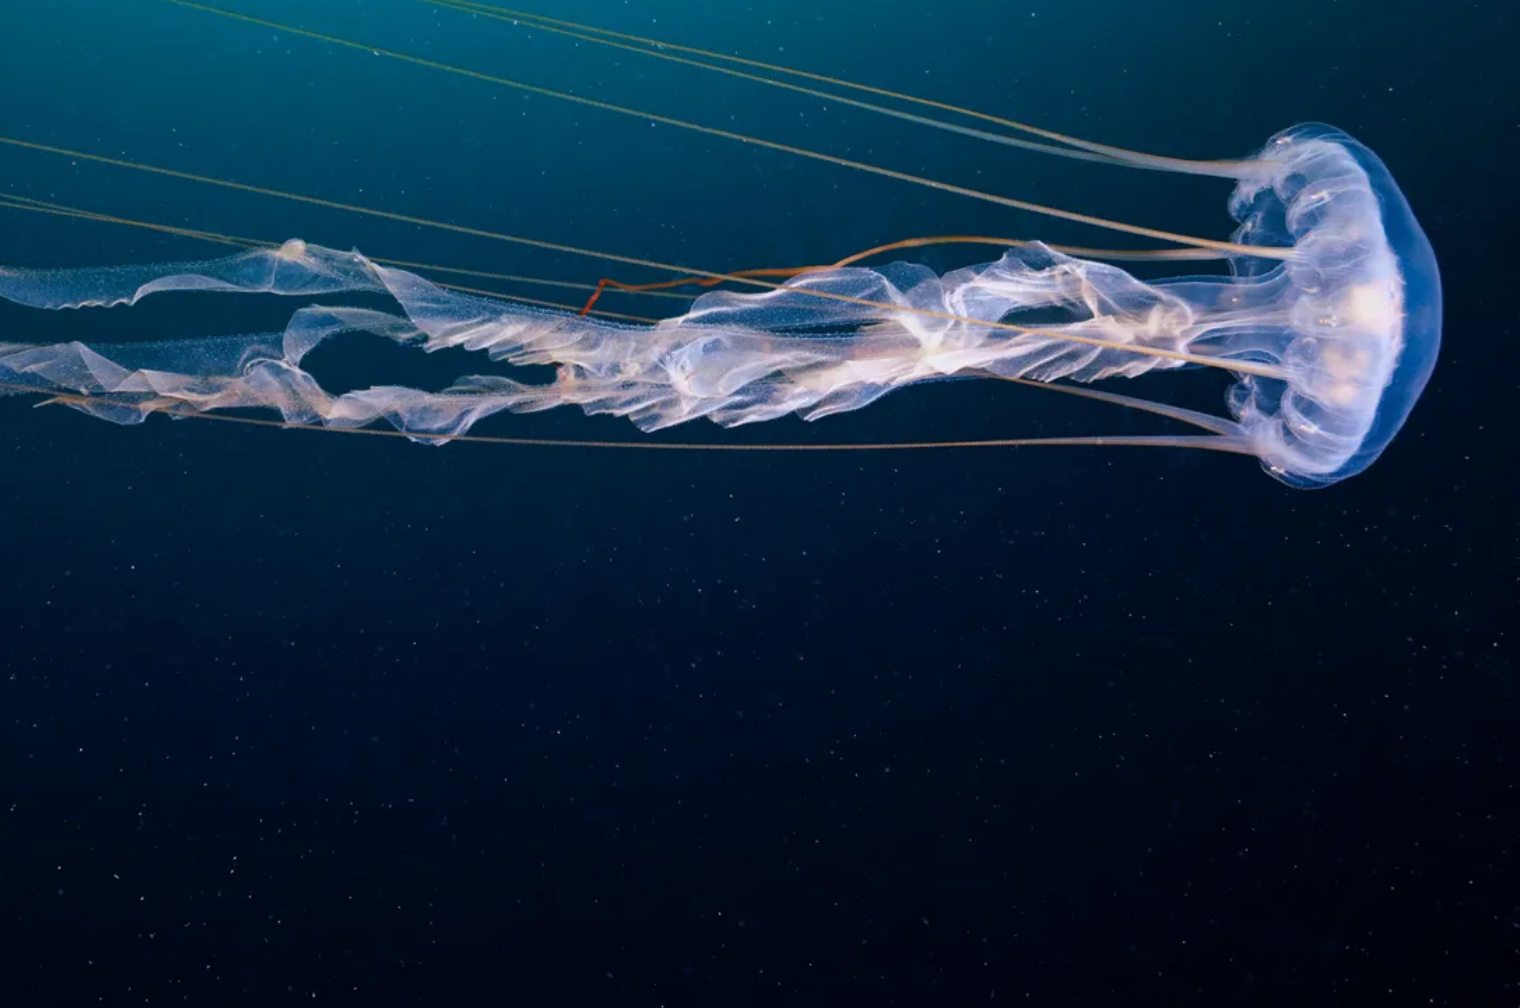
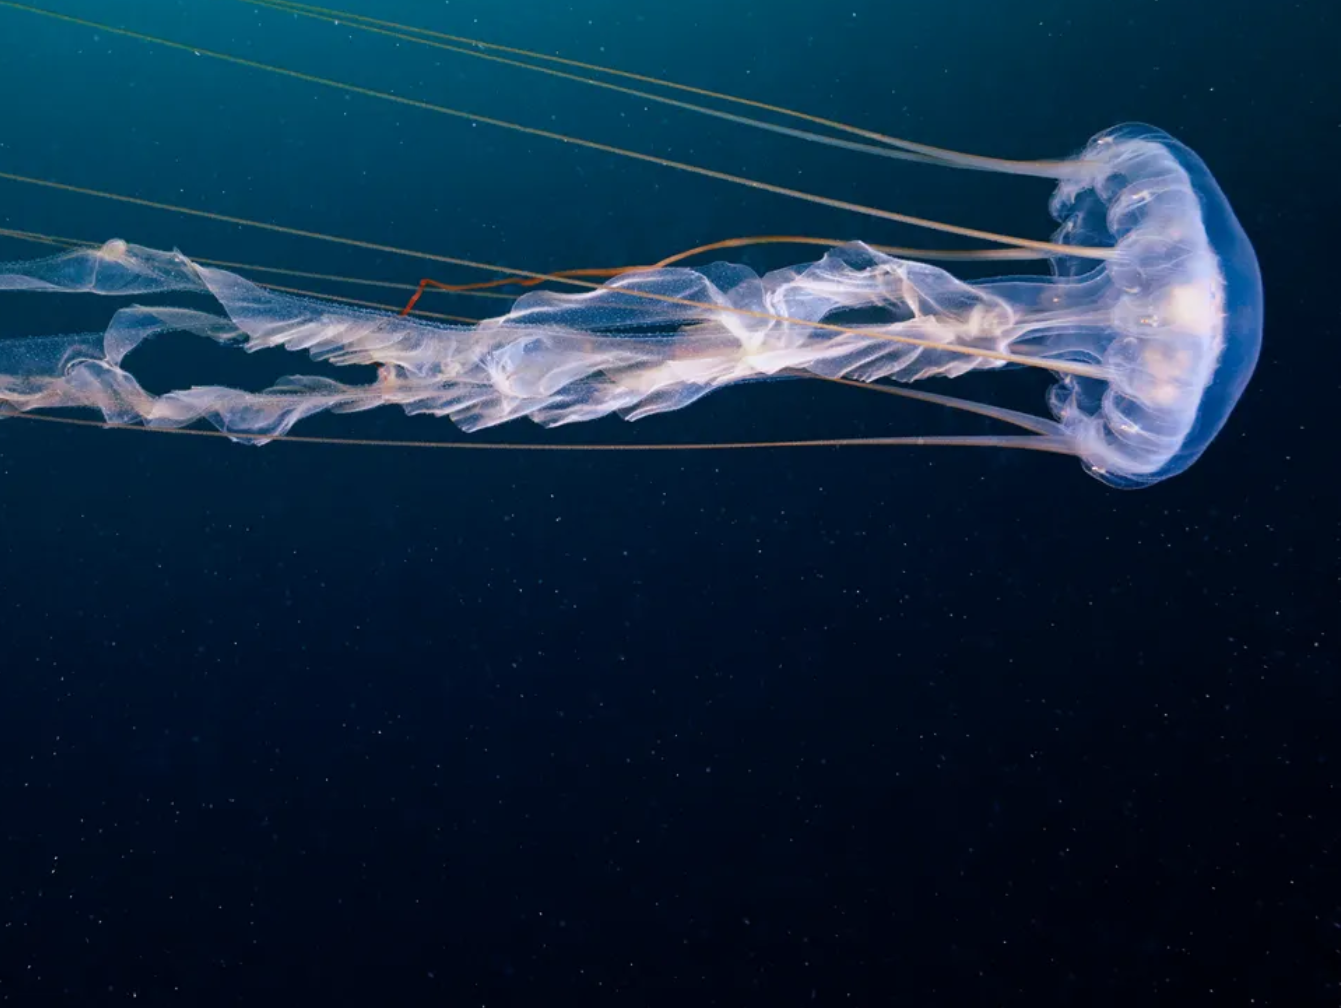
Manipulate header image

Changed region(s): [[0.0, 0.0, 0.9478, 0.4921], [0.1223, 0.0308, 0.1834, 0.0615]]

diff --git a/index.html b/index.html
@@ -17,7 +17,7 @@
       body {
         background-image: url(Jelly.PNG);
         background-size: contain;
-        background-position: unset;
+        background-position:initial;
         margin: 0;
         font-family: "Times New Roman", Times, serif;
         color: antiquewhite; 
